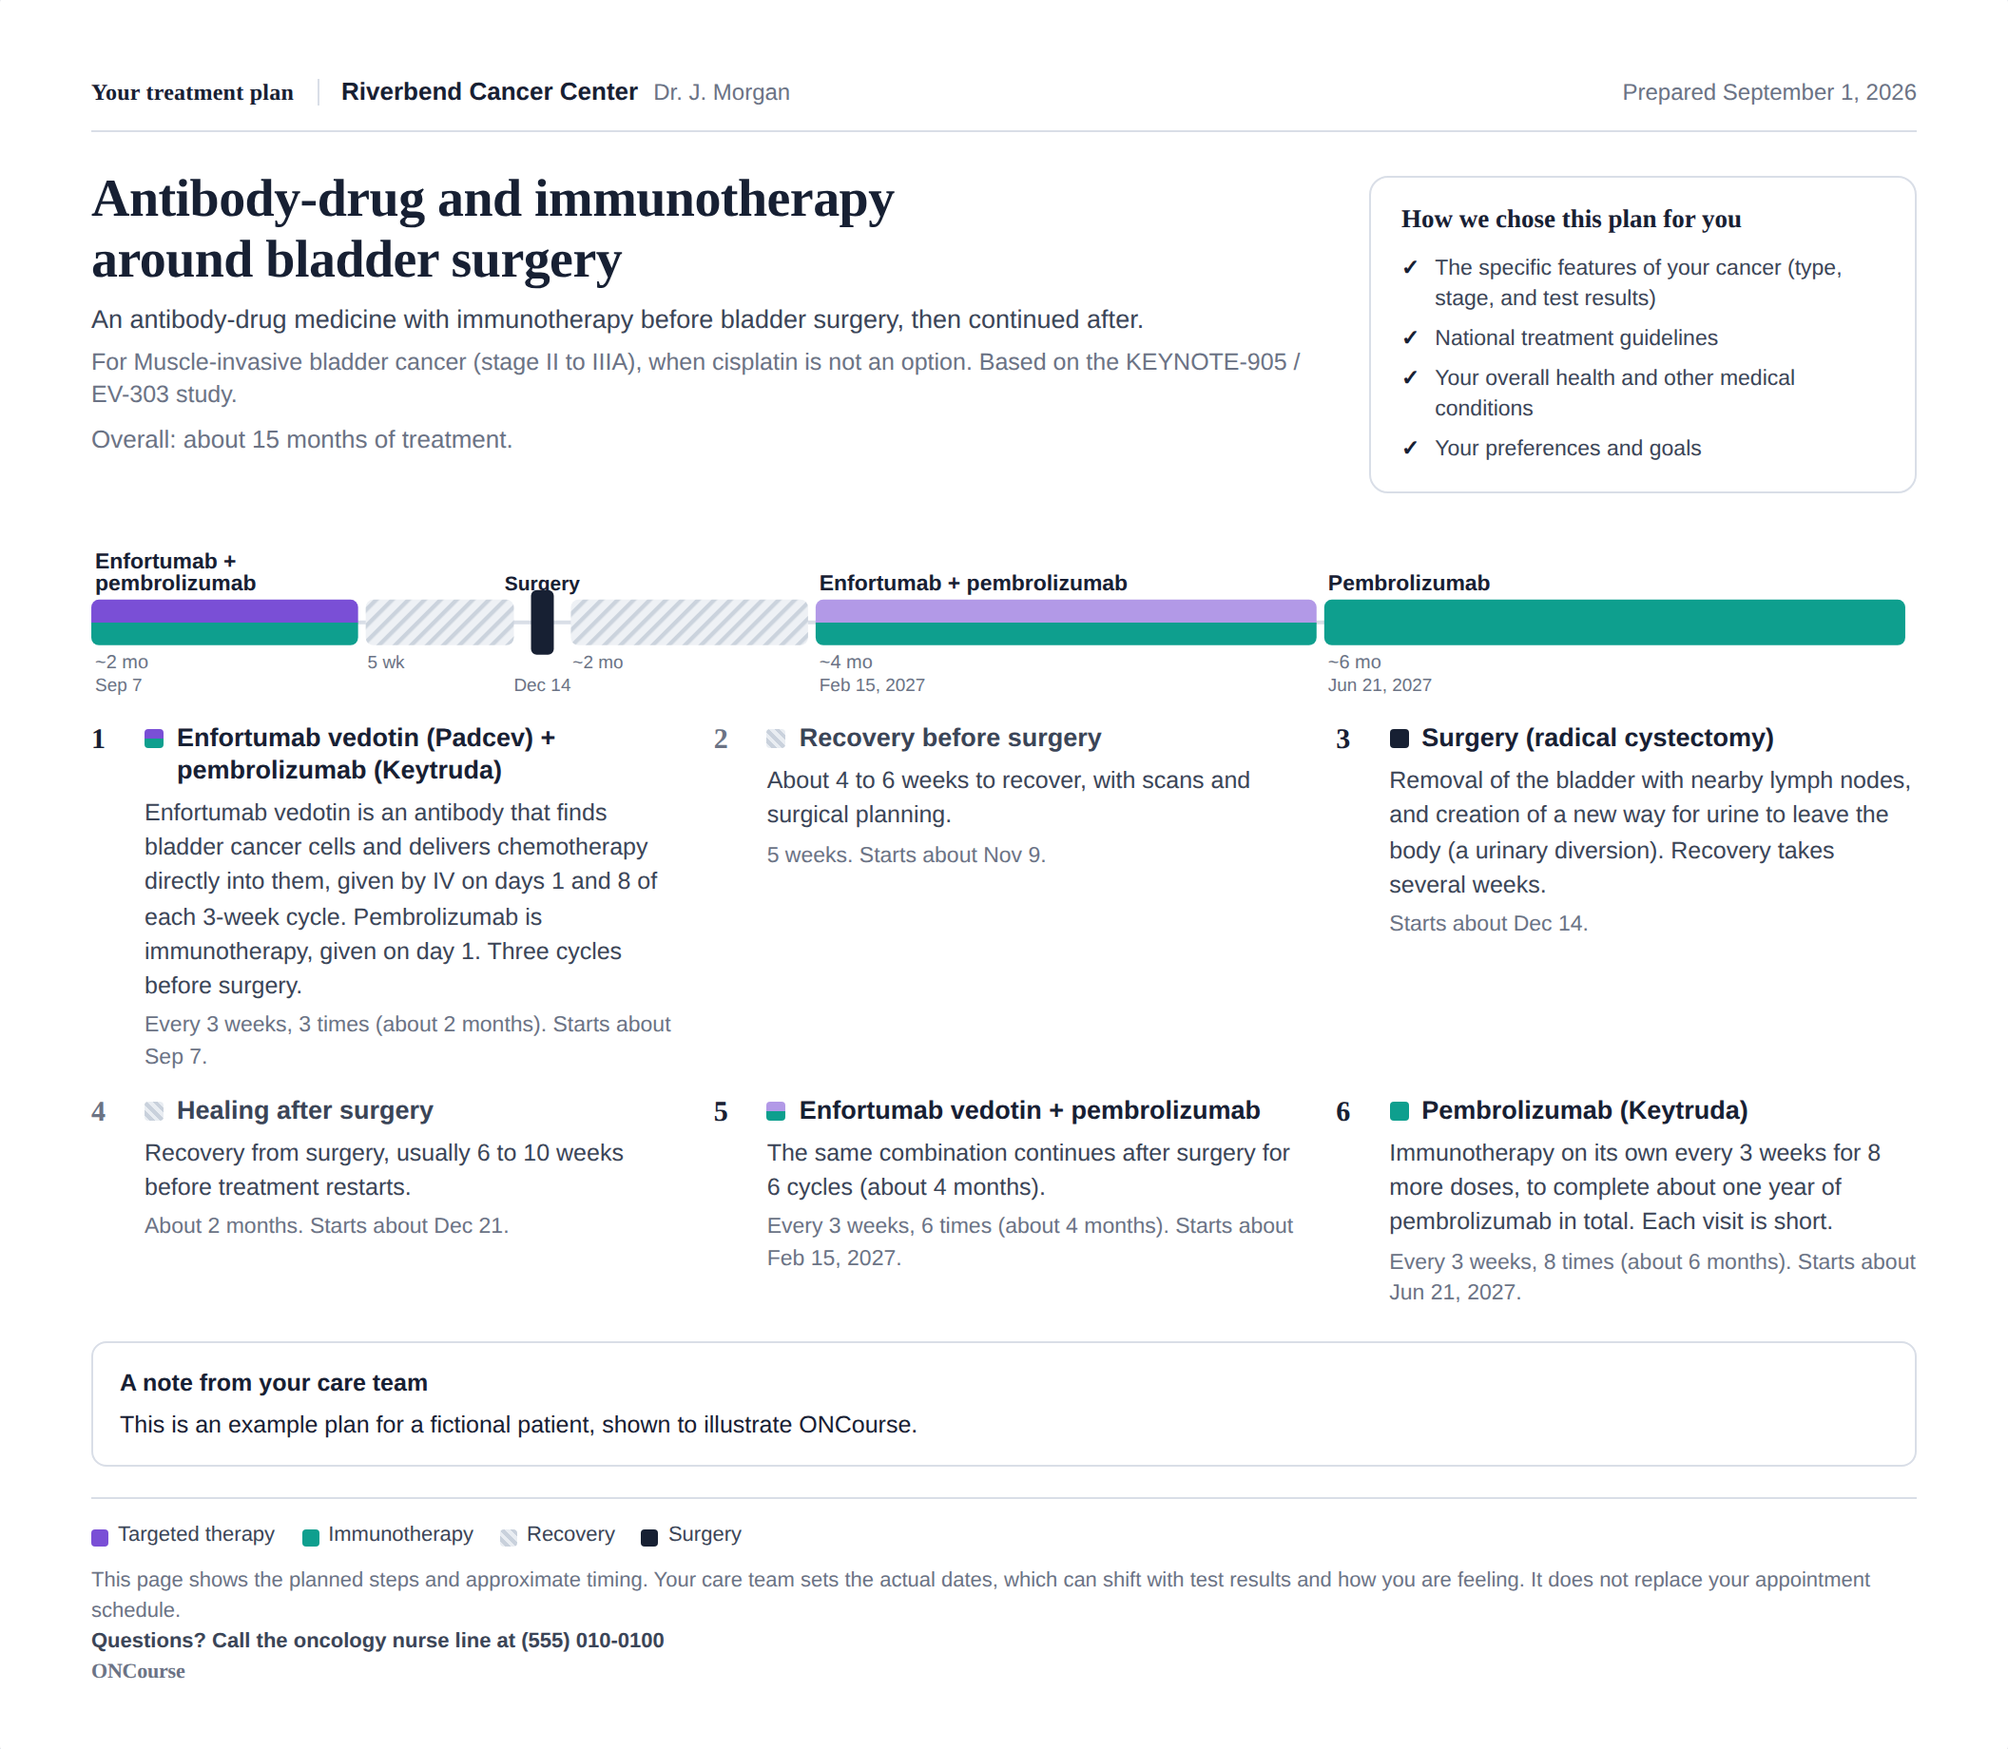
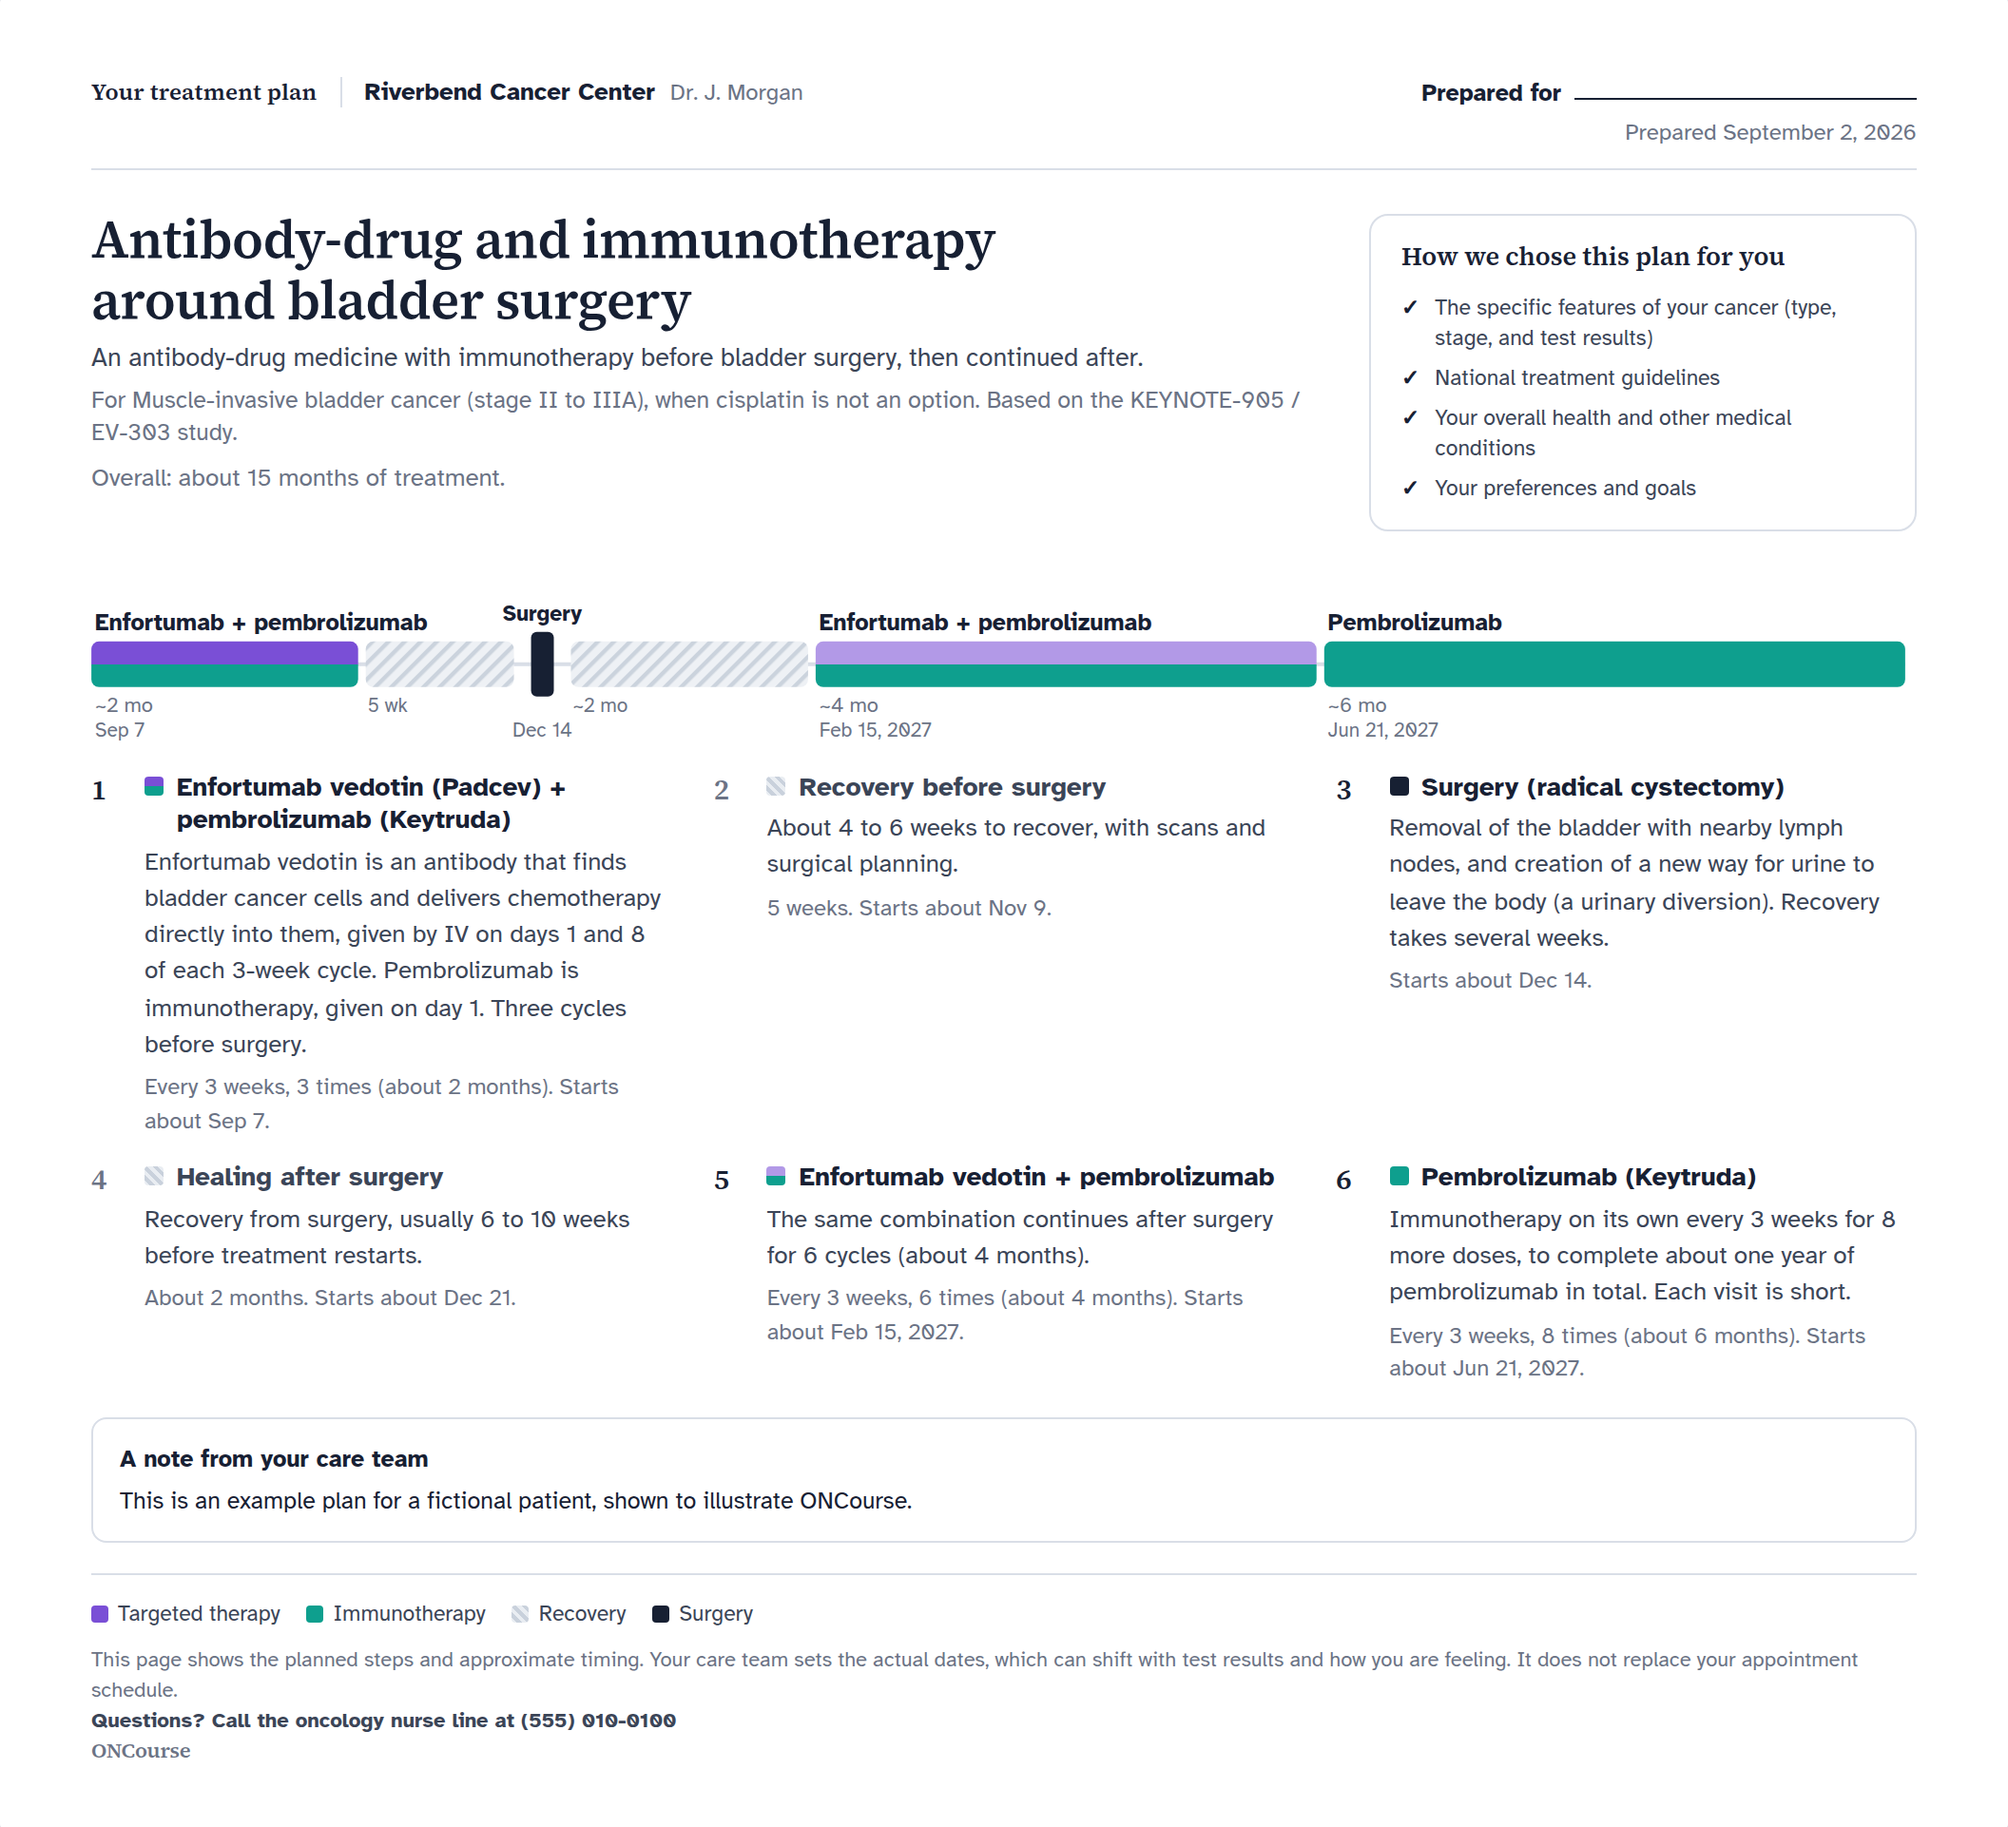
Regenerate the example images from the current build
hero.png, hero-ev303.png, hero-flot.png, route-kn522.png, decision.png,
decision-opra.png, and compare.png re-captured so the landing page and
guide show what the builder now prints: the site's real fonts, the
larger map labels, matched typography on alongside-lane labels, the
Surgery label clear of its marker, decision labels below the diamond,
and the "Prepared for ____" line in the handout header. Declared
width/height attributes in index.html updated to the new dimensions.

Claude-Session: https://claude.ai/code/session_01Y3Tfh74JNeao5syQge4XYJ

diff --git a/index.html b/index.html
@@ -34,9 +34,9 @@
       <button type="button" role="tab" id="hstab-2" aria-controls="hs-2" aria-selected="false" data-i="2">Stomach and GEJ</button>
     </div>
     <div class="hsview" id="hsview">
-      <a class="heroimg hsslide on" id="hs-0" role="tabpanel" aria-labelledby="hstab-0" href="app.html#r=kn522&demo=1" aria-label="Open the triple-negative breast cancer example"><img src="hero.png" alt="An ONCourse treatment map for stage II to III triple-negative breast cancer: chemo-immunotherapy, surgery, a pathology decision point, then immunotherapy" width="2112" height="2732"></a>
-      <a class="heroimg hsslide" id="hs-1" role="tabpanel" aria-labelledby="hstab-1" href="app.html#r=ev303&demo=1" aria-label="Open the muscle-invasive bladder cancer example"><img data-src="hero-ev303.png" alt="An ONCourse treatment map for muscle-invasive bladder cancer: enfortumab vedotin with pembrolizumab, cystectomy, then more of both" width="2112" height="1840"></a>
-      <a class="heroimg hsslide" id="hs-2" role="tabpanel" aria-labelledby="hstab-2" href="app.html#r=flot&demo=1" aria-label="Open the stomach and gastroesophageal junction cancer example"><img data-src="hero-flot.png" alt="An ONCourse treatment map for stomach or gastroesophageal junction cancer: FLOT chemotherapy with durvalumab, surgery, then more of both" width="2112" height="2070"></a>
+      <a class="heroimg hsslide on" id="hs-0" role="tabpanel" aria-labelledby="hstab-0" href="app.html#r=kn522&demo=1" aria-label="Open the triple-negative breast cancer example"><img src="hero.png" alt="An ONCourse treatment map for stage II to III triple-negative breast cancer: chemo-immunotherapy, surgery, a pathology decision point, then immunotherapy" width="2112" height="2842"></a>
+      <a class="heroimg hsslide" id="hs-1" role="tabpanel" aria-labelledby="hstab-1" href="app.html#r=ev303&demo=1" aria-label="Open the muscle-invasive bladder cancer example"><img data-src="hero-ev303.png" alt="An ONCourse treatment map for muscle-invasive bladder cancer: enfortumab vedotin with pembrolizumab, cystectomy, then more of both" width="2112" height="1923"></a>
+      <a class="heroimg hsslide" id="hs-2" role="tabpanel" aria-labelledby="hstab-2" href="app.html#r=flot&demo=1" aria-label="Open the stomach and gastroesophageal junction cancer example"><img data-src="hero-flot.png" alt="An ONCourse treatment map for stomach or gastroesophageal junction cancer: FLOT chemotherapy with durvalumab, surgery, then more of both" width="2112" height="2161"></a>
     </div>
     <p class="hscap" id="hscap" aria-live="polite">Triple-negative breast cancer, stage II to III &middot; KEYNOTE-522</p>
   </div>
@@ -56,7 +56,7 @@
     <div class="ba-col"><h3>A treatment calendar</h3>
       <ul class="cal"><li><time>Sep 7</time>Infusion</li><li><time>Sep 14</time>Infusion</li><li><time>Sep 21</time>Infusion</li><li><time>Sep 28</time>Infusion, labs</li><li><time>Oct 5</time>Infusion</li><li class="more">…</li><li><time>Mar 22</time>Surgery</li><li><time>Apr 5</time>Pathology results</li><li class="q">then?</li></ul>
     </div>
-    <div class="ba-col wide"><h3>A treatment map</h3><img src="route-kn522.png" alt="The same plan as a map: two chemotherapy phases, surgery, a pathology fork, and immunotherapy" width="1920" height="378"></div>
+    <div class="ba-col wide"><h3>A treatment map</h3><img src="route-kn522.png" alt="The same plan as a map: two chemotherapy phases, surgery, a pathology fork, and immunotherapy" width="1920" height="394"></div>
   </div>
   <p class="pull">A calendar tells you when. A map shows you where you're going.</p>
 </div></section>
@@ -81,13 +81,13 @@
     <p class="sub">Surgery, pathology, imaging, and how a person responds can all change what comes next. ONCourse draws those decision points as real forks, leads with the path the team is planning around, and keeps the alternative in view.</p>
     <p class="pull small">ONCourse shows not just what happens next, but what might change the path.</p>
   </div>
-  <div class="imgcard"><img src="decision.png" alt="A treatment map with a pathology decision point: one branch continues HER2 antibodies, the other switches to trastuzumab deruxtecan" width="1920" height="392"></div>
+  <div class="imgcard"><img src="decision.png" alt="A treatment map with a pathology decision point: one branch continues HER2 antibodies, the other switches to trastuzumab deruxtecan" width="1920" height="408"></div>
 </div></section>
 
 <section id="compare"><div class="wrap">
   <h2 style="font-size:24px">Comparing two options</h2>
   <p class="sub">When more than one regimen is reasonable, the decision visit is easier with both on one time scale. Months, visits, and the trade-offs, side by side.</p>
-  <div class="imgcard" style="margin-top:16px"><img src="compare.png" alt="A comparison page for stage III HER2-positive breast cancer, showing two regimens side by side with their timelines, total months, visit counts, advantages and trade-offs" width="2112" height="1476"></div>
+  <div class="imgcard" style="margin-top:16px"><img src="compare.png" alt="A comparison page for stage III HER2-positive breast cancer, showing two regimens side by side with their timelines, total months, visit counts, advantages and trade-offs" width="2112" height="1477"></div>
   <p class="more-link"><a class="btn small" href="app.html#cmp=demo" style="color:#fff">Open this comparison</a> <a class="btn sec small" href="app.html">Build your own</a></p>
 </div></section>
 
